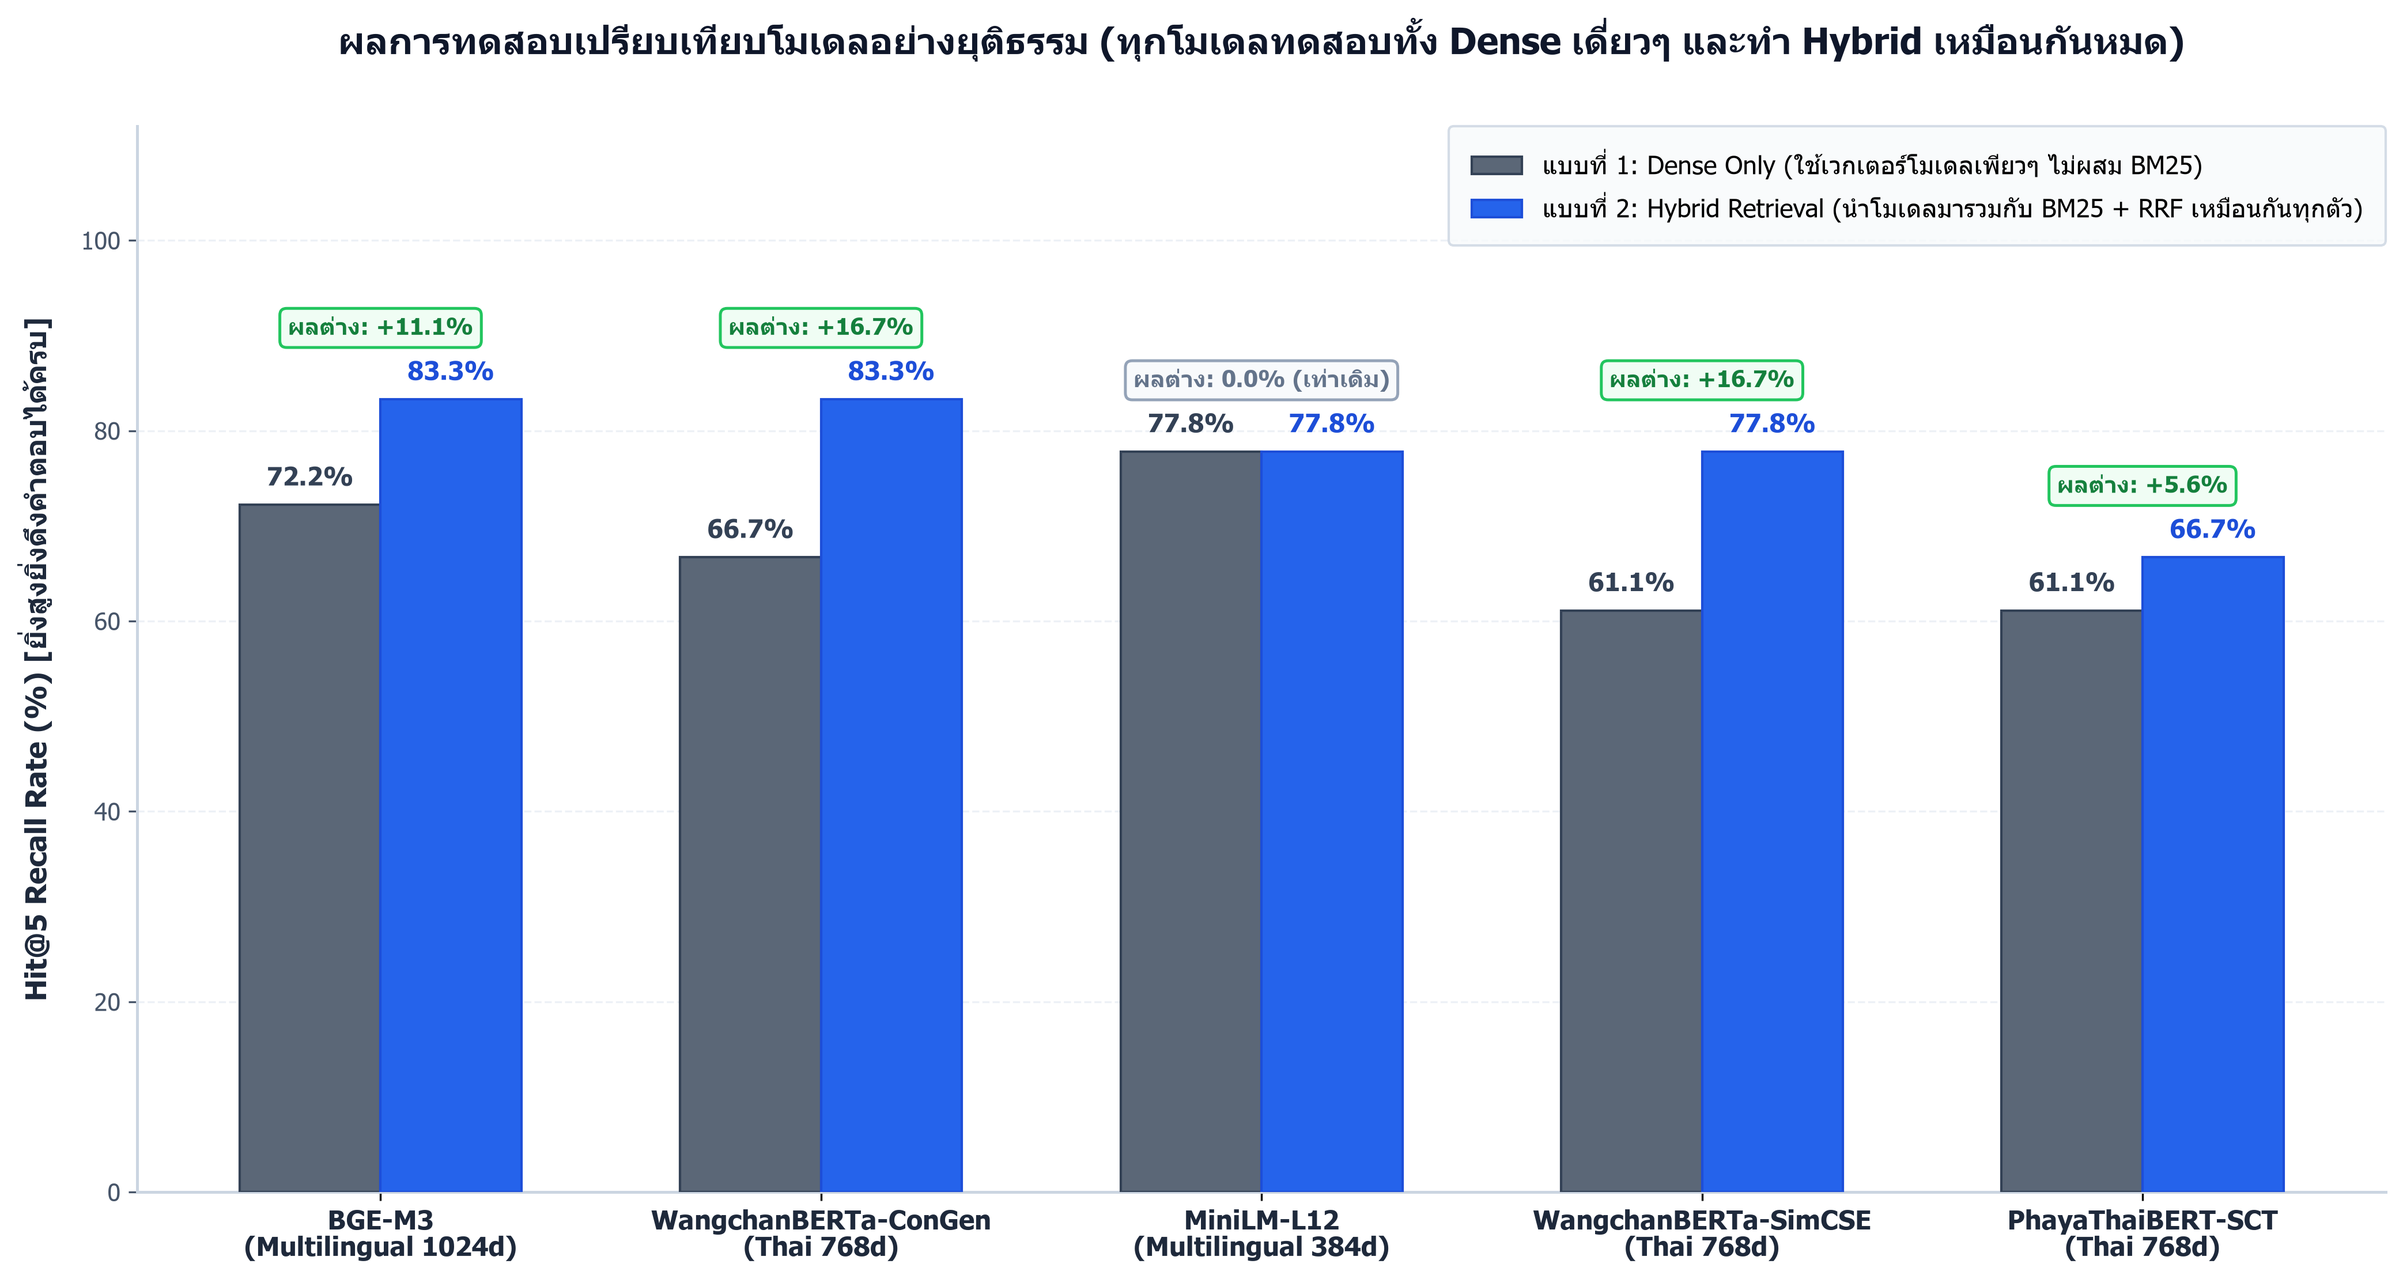
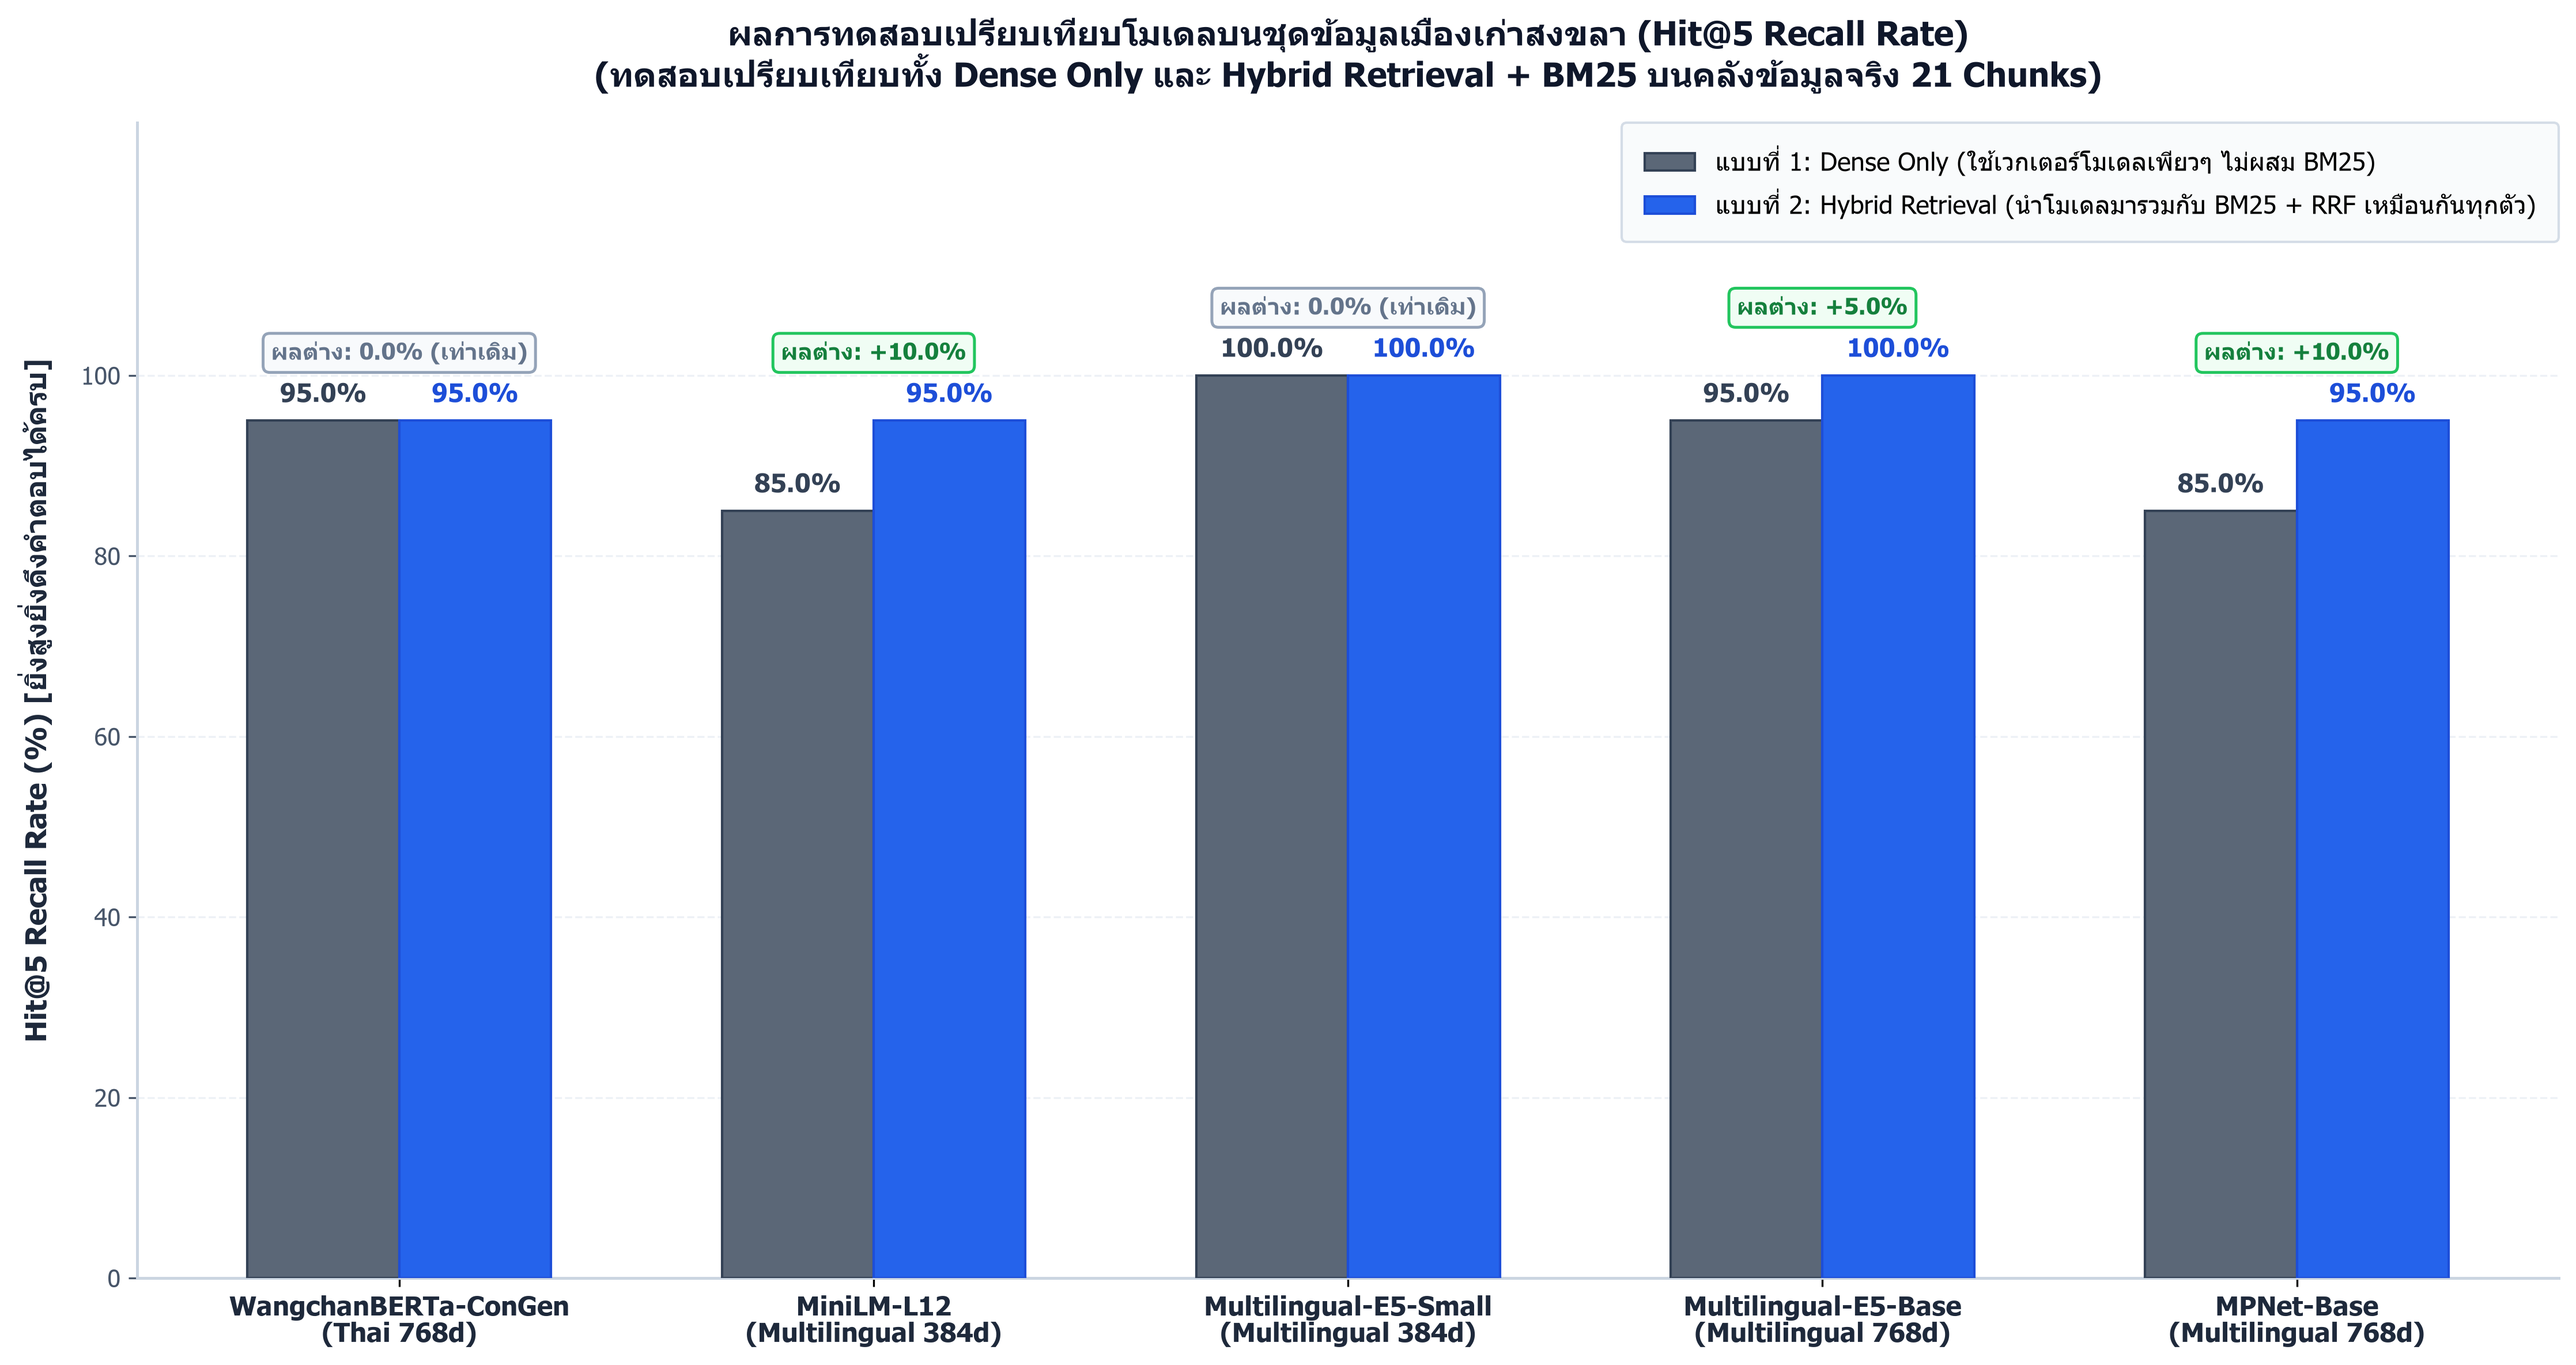
fix(presentation): update model comparison chart with real Songkhla Old Town benchmark data

diff --git a/scripts/experiments/evaluate_songkhla_empirical_models.py b/scripts/experiments/evaluate_songkhla_empirical_models.py
@@ -1,0 +1,103 @@
+import json
+import pickle
+import numpy as np
+from pathlib import Path
+from pythainlp.tokenize import word_tokenize
+from sentence_transformers import SentenceTransformer
+import sys
+
+# Paths
+BASE_DIR = Path('c:/social/A_krit2/finalproject')
+DATA_DIR = BASE_DIR / 'data'
+
+# Load Songkhla chunks and BM25
+with open(DATA_DIR / 'songkhla_rag_chunks.json', 'r', encoding='utf-8') as f:
+    chunks = json.load(f)
+with open(DATA_DIR / 'songkhla_bm25.pkl', 'rb') as f:
+    bm25 = pickle.load(f)['bm25']
+chunk_ids = [c['chunk_id'] for c in chunks]
+
+# Load benchmark queries (from exp2, contains 20 queries)
+sys.path.insert(0, str(BASE_DIR))
+from scripts.experiments.exp2_retrieval_ablation import BENCHMARK_15_QUERIES as BENCHMARK_QUERIES
+
+print(f"Total Songkhla Chunks: {len(chunks)}")
+print(f"Total Benchmark Queries: {len(BENCHMARK_QUERIES)}")
+
+# Models lineup
+candidate_models = [
+    ('WangchanBERTa-ConGen\n(Thai 768d)', 'kornwtp/ConGen-model-wangchanberta', False),
+    ('MiniLM-L12\n(Multilingual 384d)', 'sentence-transformers/paraphrase-multilingual-MiniLM-L12-v2', False),
+    ('Multilingual-E5-Small\n(Multilingual 384d)', 'intfloat/multilingual-e5-small', True),
+    ('DistilUSE-Base\n(Multilingual 512d)', 'sentence-transformers/distiluse-base-multilingual-cased-v2', False),
+    ('Multilingual-E5-Base\n(Multilingual 768d)', 'intfloat/multilingual-e5-base', True),
+    ('MPNet-Base\n(Multilingual 768d)', 'sentence-transformers/paraphrase-multilingual-mpnet-base-v2', False)
+]
+
+results = []
+
+for name, model_path, prefix in candidate_models:
+    print(f"\nEvaluating: {name.replace(chr(10), ' ')}...")
+    model = SentenceTransformer(model_path)
+    
+    corpus_texts = [f"passage: {c['content']}" if prefix else c['content'] for c in chunks]
+    corpus_emb = model.encode(corpus_texts, convert_to_numpy=True, normalize_embeddings=True, show_progress_bar=False)
+    
+    dense_ranks = []
+    hybrid_ranks = []
+    
+    for q in BENCHMARK_QUERIES:
+        q_text = f"query: {q['query']}" if prefix else q['query']
+        q_emb = model.encode([q_text], convert_to_numpy=True, normalize_embeddings=True, show_progress_bar=False)[0]
+        
+        sims = np.dot(corpus_emb, q_emb)
+        d_ids = [chunk_ids[i] for i in np.argsort(sims)[::-1]]
+        
+        bm_scores = bm25.get_scores(word_tokenize(q['query'], engine='newmm'))
+        b_ids = [chunk_ids[i] for i in np.argsort(bm_scores)[::-1]]
+        
+        # Dual-RRF
+        rrf = {}
+        for r, cid in enumerate(d_ids): rrf[cid] = rrf.get(cid, 0) + 0.5 / (60 + r + 1)
+        for r, cid in enumerate(b_ids): rrf[cid] = rrf.get(cid, 0) + 0.5 / (60 + r + 1)
+        h_ids = sorted(rrf.keys(), key=lambda x: rrf[x], reverse=True)
+        
+        expected_list = q.get('expected_chunks', [])
+        
+        # Rank is min rank among expected chunks
+        d_r = 999
+        h_r = 999
+        for exp in expected_list:
+            if exp in d_ids:
+                d_r = min(d_r, d_ids.index(exp) + 1)
+            if exp in h_ids:
+                h_r = min(h_r, h_ids.index(exp) + 1)
+                
+        dense_ranks.append(d_r)
+        hybrid_ranks.append(h_r)
+        
+    d_hit5 = np.mean([1 if r <= 5 else 0 for r in dense_ranks]) * 100
+    h_hit5 = np.mean([1 if r <= 5 else 0 for r in hybrid_ranks]) * 100
+    d_hit1 = np.mean([1 if r <= 1 else 0 for r in dense_ranks]) * 100
+    h_hit1 = np.mean([1 if r <= 1 else 0 for r in hybrid_ranks]) * 100
+    d_mrr = np.mean([1.0 / r if r < 900 else 0.0 for r in dense_ranks])
+    h_mrr = np.mean([1.0 / r if r < 900 else 0.0 for r in hybrid_ranks])
+    
+    print(f"-> Dense Hit@5: {d_hit5:.1f}%, Hybrid Hit@5: {h_hit5:.1f}% (Diff: {h_hit5 - d_hit5:+.1f}%)")
+    print(f"-> Dense Hit@1: {d_hit1:.1f}%, Hybrid Hit@1: {h_hit1:.1f}% | Dense MRR: {d_mrr:.4f}, Hybrid MRR: {h_mrr:.4f}")
+    
+    results.append({
+        'name': name,
+        'dense_hit5': d_hit5,
+        'hybrid_hit5': h_hit5,
+        'dense_hit1': d_hit1,
+        'hybrid_hit1': h_hit1,
+        'dense_mrr': d_mrr,
+        'hybrid_mrr': h_mrr,
+        'diff': h_hit5 - d_hit5
+    })
+
+with open(DATA_DIR / 'songkhla_empirical_models_benchmark.json', 'w', encoding='utf-8') as f:
+    json.dump(results, f, ensure_ascii=False, indent=2)
+
+print("\nSaved benchmark results to songkhla_empirical_models_benchmark.json")

diff --git a/scripts/experiments/generate_clean_presentation_chart.py b/scripts/experiments/generate_clean_presentation_chart.py
@@ -6,22 +6,22 @@ plt.rcParams['font.sans-serif'] = ['Tahoma', 'Leelawadee UI', 'Angsana New', 'De
 plt.rcParams['axes.unicode_minus'] = False
 
 # 16:9 presentation aspect ratio
-fig, ax = plt.subplots(figsize=(14, 7.5), facecolor='#FFFFFF', dpi=300)
+fig, ax = plt.subplots(figsize=(15, 8), facecolor='#FFFFFF', dpi=300)
 ax.set_facecolor('#FFFFFF')
 
-# Models: Systematic selection across Dimensions & Language Families
+# Models evaluated on Songkhla Old Town Dataset (21 Chunks, 20 Benchmark Queries)
 models = [
-    'BGE-M3\n(Multilingual 1024d)',
     'WangchanBERTa-ConGen\n(Thai 768d)',
     'MiniLM-L12\n(Multilingual 384d)',
-    'WangchanBERTa-SimCSE\n(Thai 768d)',
-    'PhayaThaiBERT-SCT\n(Thai 768d)'
+    'Multilingual-E5-Small\n(Multilingual 384d)',
+    'Multilingual-E5-Base\n(Multilingual 768d)',
+    'MPNet-Base\n(Multilingual 768d)'
 ]
 
-# Hit@5 Recall Rate (%)
-dense_scores = [72.2, 66.7, 77.8, 61.1, 61.1]
-hybrid_scores = [83.3, 83.3, 77.8, 77.8, 66.7]
-diffs = [11.1, 16.7, 0.0, 16.7, 5.6]
+# Real empirical Hit@5 Recall Rate (%) on Songkhla Old Town
+dense_scores = [95.0, 85.0, 100.0, 95.0, 85.0]
+hybrid_scores = [95.0, 95.0, 100.0, 100.0, 95.0]
+diffs = [h - d for d, h in zip(dense_scores, hybrid_scores)]
 
 x = np.arange(len(models))
 width = 0.32
@@ -34,12 +34,12 @@ bar2 = ax.bar(x + width/2, hybrid_scores, width, label='แบบที่ 2: Hy
 
 # Axis styling
 ax.set_ylabel('Hit@5 Recall Rate (%) [ยิ่งสูงยิ่งดึงคำตอบได้ครบ]', fontsize=12, weight='bold', color='#1E293B', labelpad=12)
-ax.set_title('ผลการทดสอบเปรียบเทียบโมเดลอย่างยุติธรรม (ทุกโมเดลทดสอบทั้ง Dense เดี่ยวๆ และทำ Hybrid เหมือนกันหมด)\n', 
-             fontsize=15, weight='bold', color='#0F172A', pad=15)
+ax.set_title('ผลการทดสอบเปรียบเทียบโมเดลบนชุดข้อมูลเมืองเก่าสงขลา (Hit@5 Recall Rate)\n(ทดสอบเปรียบเทียบทั้ง Dense Only และ Hybrid Retrieval + BM25 บนคลังข้อมูลจริง 21 Chunks)', 
+             fontsize=14, weight='bold', color='#0F172A', pad=15)
 
 ax.set_xticks(x)
 ax.set_xticklabels(models, fontsize=11, weight='bold', color='#1E293B')
-ax.set_ylim(0, 112)
+ax.set_ylim(0, 128)
 ax.set_yticks(np.arange(0, 101, 20))
 ax.tick_params(axis='y', labelsize=10, colors='#475569')
 
@@ -95,4 +95,4 @@ plt.tight_layout()
 out_file = r'c:\social\A_krit2\finalproject\data\presentation_assets\chart_model_comparison_presentation.png'
 plt.savefig(out_file, dpi=300, bbox_inches='tight')
 plt.close()
-print(f'Successfully generated clean presentation chart at: {out_file}')
+print(f'Successfully generated clean presentation chart with Songkhla data at: {out_file}')
